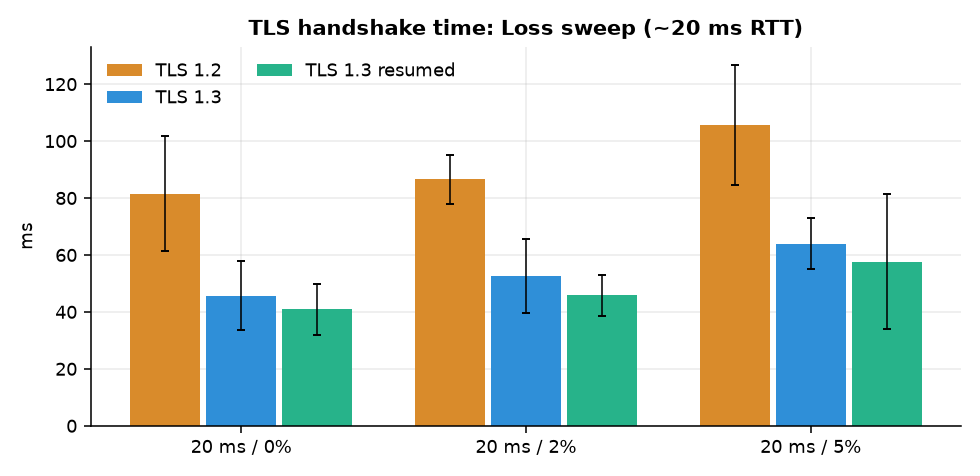
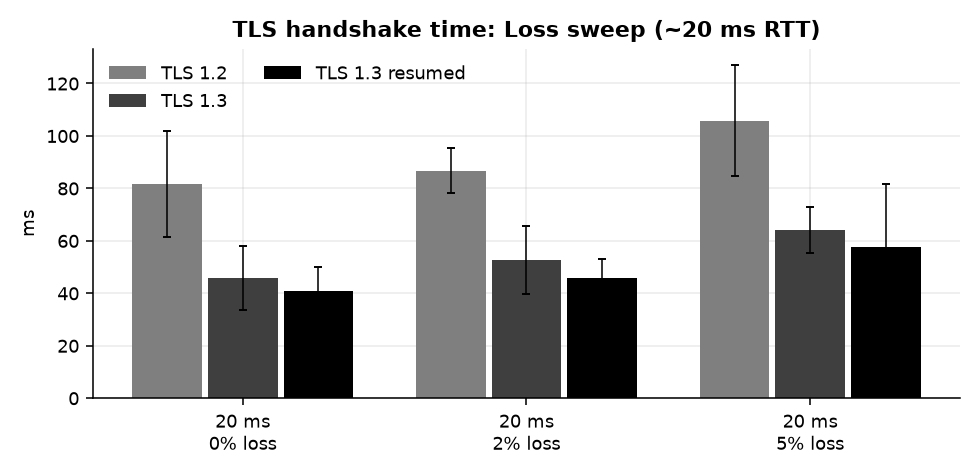
Fix architecture diagram layout, plain charts, readable latency figures, report tables
- docs/architecture.svg redrawn with a wider R1-R2 gap, larger text and no overlapping labels (plain black and white)
- bench/plots.py: grey palette, two-line group labels, one shared legend, log axis for the RTT latency figure
- docs/REPORT.md: compact comparison tables, explanation of the 16 KiB latency (TCP window growth), measured results

diff --git a/bench/plots.py b/bench/plots.py
@@ -17,18 +17,18 @@ import matplotlib.pyplot as plt
 sys.path.insert(0, os.path.dirname(os.path.dirname(os.path.abspath(__file__))))
 from bench import conditions as C
 
-COLORS = {"tcp": "#7a8793", "tls12": "#d98b2b", "tls13": "#2f8fd8", "tls13_resumed": "#27b38a",
-          "tls": "#2f8fd8", "e2ee": "#8e63ce"}
+COLORS = {"tcp": "#bdbdbd", "tls12": "#7f7f7f", "tls13": "#3f3f3f", "tls13_resumed": "#000000",
+          "tls": "#7f7f7f", "e2ee": "#000000"}
 
 
 def style():
     plt.rcParams.update({"figure.dpi": 140, "axes.spines.top": False, "axes.spines.right": False,
                          "axes.grid": True, "grid.alpha": .25, "axes.axisbelow": True,
-                         "font.size": 9, "axes.titleweight": "bold", "legend.frameon": False})
+                         "font.size": 9.5, "axes.titleweight": "bold", "legend.frameon": False})
 
 
 def label(c):
-    return f"{c['rtt_ms']} ms / {c['loss_pct']}%"
+    return f"{c['rtt_ms']} ms\n{c['loss_pct']}% loss"
 
 
 def grouped(ax, conds, series, get, ylabel):
@@ -82,12 +82,21 @@ def main():
     for name, sweep, title in (("rtt", A, "RTT sweep"), ("loss", B, "Loss sweep")):
         if not sweep:
             continue
-        fig, axes = plt.subplots(1, len(C.PAYLOADS), figsize=(10, 3.2), sharey=True)
+        fig, axes = plt.subplots(1, len(C.PAYLOADS), figsize=(8.2, 3.7), sharey=True)
         for ax, pl in zip(axes, C.PAYLOADS):
             grouped(ax, sweep, C.MODES, lat(pl), "message latency (ms)")
+            if name == "rtt":                      # 16 KiB takes several RTTs; a log axis keeps 64 B visible
+                top = max(v["mean"] + v["sd"] for c in sweep for m in C.MODES
+                          for v in [lat(pl)(c["id"], m)] if v) * 2.2
+                ax.set_yscale("log"); ax.set_ylim(10, top)
             ax.set_title(f"{pl} B payload")
+        for ax in axes:
+            if ax.get_legend():
+                ax.get_legend().remove()
+        handles = [plt.Rectangle((0, 0), 1, 1, color=COLORS[m]) for m in C.MODES]
         fig.suptitle(f"End-to-end message latency A -> relay -> B: {title}{tag}", fontweight="bold")
-        fig.tight_layout(); fig.savefig(f"{a.out}/latency_{name}.png"); plt.close(fig)
+        fig.legend(handles, [C.LABELS[m] for m in C.MODES], loc="lower center", ncol=3, fontsize=9)
+        fig.tight_layout(rect=(0, 0.07, 1, 1)); fig.savefig(f"{a.out}/latency_{name}.png"); plt.close(fig)
 
     # E2EE overhead vs payload size: fixed 40 B => proportionally huge for tiny messages
     fig, ax = plt.subplots(figsize=(5.6, 3.2))

diff --git a/docs/REPORT.md b/docs/REPORT.md
@@ -120,7 +120,7 @@ Five distinct points across two sweeps, 5 runs each (the requirement is ≥ 3 co
 ### 5.3 Procedure and validity
 
 Per condition: apply netem → **verify** (200 pings: configured vs measured RTT and loss) → handshake matrix (20 sequential connections × {TCP, TLS 1.2, TLS 1.3, TLS 1.3 resumed} × 5 runs, configuration order shuffled each run)
-→ latency matrix (100 messages A→B × {tcp, tls, e2ee} × {64 B, 1 KiB, 16 KiB} × 5 runs, order shuffled each run, 10 ms pacing so sender queueing is not counted) → clear. Statistics: per-run means, then mean ± standard deviation across the 5 runs; min / median / p95 / max retained;
+→ latency matrix (100 messages A→B × {tcp, tls, e2ee} × {64 B, 1 KiB, 16 KiB} × 5 runs, order shuffled each run, 10 ms pacing: sufficient for small messages; for 16 KiB at high RTT the sender queue grows while TCP's window opens, and that is part of the result, see §6.2) → clear. Statistics: per-run means, then mean ± standard deviation across the 5 runs; min / median / p95 / max retained;
 no run or outlier is dropped (a lost SYN costs a ≈ 1 s retransmission, which is an explainable outlier, not noise). Key discovery (one LOOKUP round trip) is performed before timing starts so it is not folded into per-message latency.
 Threats to validity: a shared laptop adds scheduling jitter (mitigated by repetition, shuffling and reporting σ); netem loss is a statistical model, hence the measured-vs-configured check; all namespaces share one clock, which makes one-way latency measurable but means there is no clock skew to emulate.
 
@@ -143,30 +143,29 @@ figures: `results/plots/`. Numbers are mean ± standard deviation across the run
 The measured RTT is 10-30 ms above the configured value (netem timer granularity, the veth hops and the VM's scheduling), so ratios below use the **measured** RTT.
 Loss is applied on one direction only; the measured 2.0 % and 4.0 % (from 200 pings per condition) agree with the nominal 2 % / 5 % within sampling error.
 
-### 6.1 Handshake (ms)
+### 6.1 Handshake (ms, mean ± standard deviation across 5 runs)
 
-| Condition | Configuration | TCP connect | TLS handshake | Time to first data | Runs | Errors |
-|---|---|---|---|---|---|---|
-| 20 ms / 0 % | Plain TCP | 46.68 ± 6.47 | – | 92.6 ± 14.8 | 5 | 0 |
-| 20 ms / 0 % | TLS 1.2 | 42.15 ± 13.34 | 81.6 ± 20.3 | 154.2 ± 35.0 | 5 | 0 |
-| 20 ms / 0 % | TLS 1.3 | 45.73 ± 12.41 | 45.8 ± 12.2 | 133.6 ± 19.3 | 5 | 0 |
-| 20 ms / 0 % | TLS 1.3 resumed | 42.98 ± 10.90 | 41.0 ± 9.0 | 127.4 ± 35.2 | 5 | 0 |
-| 100 ms / 0 % | Plain TCP | 128.91 ± 8.08 | – | 242.5 ± 8.8 | 5 | 0 |
-| 100 ms / 0 % | TLS 1.2 | 125.82 ± 11.56 | 234.8 ± 11.2 | 476.4 ± 29.7 | 5 | 0 |
-| 100 ms / 0 % | TLS 1.3 | 122.06 ± 6.19 | 120.7 ± 5.0 | 359.6 ± 10.3 | 5 | 0 |
-| 100 ms / 0 % | TLS 1.3 resumed | 124.03 ± 5.21 | 120.2 ± 6.7 | 360.3 ± 12.5 | 5 | 0 |
-| 200 ms / 0 % | Plain TCP | 219.37 ± 4.23 | – | 433.0 ± 4.4 | 5 | 0 |
-| 200 ms / 0 % | TLS 1.2 | 213.39 ± 5.21 | 428.5 ± 2.6 | 851.8 ± 6.5 | 5 | 0 |
-| 200 ms / 0 % | TLS 1.3 | 214.06 ± 5.23 | 220.3 ± 4.0 | 648.6 ± 6.5 | 5 | 0 |
-| 200 ms / 0 % | TLS 1.3 resumed | 216.98 ± 4.12 | 215.4 ± 3.6 | 645.6 ± 6.1 | 5 | 0 |
-| 20 ms / 2 % | Plain TCP | 40.43 ± 6.31 | – | 85.9 ± 21.1 | 5 | 0 |
-| 20 ms / 2 % | TLS 1.2 | 57.38 ± 27.88 | 86.6 ± 8.6 | 186.7 ± 42.5 | 5 | 0 |
-| 20 ms / 2 % | TLS 1.3 | 66.41 ± 31.11 | 52.6 ± 12.9 | 161.2 ± 33.7 | 5 | 0 |
-| 20 ms / 2 % | TLS 1.3 resumed | 75.98 ± 45.29 | 45.9 ± 7.3 | 170.1 ± 41.3 | 5 | 0 |
-| 20 ms / 5 % | Plain TCP | 122.44 ± 58.70 | – | 167.4 ± 57.2 | 5 | 0 |
-| 20 ms / 5 % | TLS 1.2 | 100.03 ± 43.52 | 105.8 ± 21.2 | 255.6 ± 43.8 | 5 | 0 |
-| 20 ms / 5 % | TLS 1.3 | 80.65 ± 43.03 | 64.1 ± 8.9 | 206.0 ± 54.2 | 5 | 0 |
-| 20 ms / 5 % | TLS 1.3 resumed | 53.31 ± 27.43 | 57.8 ± 23.8 | 181.9 ± 42.0 | 5 | 0 |
+**TLS handshake time** (ClientHello to handshake complete):
+
+| Condition (RTT / loss) | TLS 1.2 | TLS 1.3 | TLS 1.3 resumed |
+|---|---|---|---|
+| 20 ms / 0 % | 81.6 ± 20.3 | 45.8 ± 12.2 | 41.0 ± 9.0 |
+| 100 ms / 0 % | 235 ± 11 | 121 ± 5 | 120 ± 7 |
+| 200 ms / 0 % | 429 ± 3 | 220 ± 4 | 215 ± 4 |
+| 20 ms / 2 % | 86.6 ± 8.6 | 52.6 ± 12.9 | 45.9 ± 7.3 |
+| 20 ms / 5 % | 106 ± 21 | 64.1 ± 8.9 | 57.8 ± 23.8 |
+
+**Time to first application data** (connection start to the first reply; includes the TCP handshake):
+
+| Condition (RTT / loss) | Plain TCP | TLS 1.2 | TLS 1.3 | TLS 1.3 resumed |
+|---|---|---|---|---|
+| 20 ms / 0 % | 92.6 ± 14.8 | 154 ± 35 | 134 ± 19 | 127 ± 35 |
+| 100 ms / 0 % | 243 ± 9 | 476 ± 30 | 360 ± 10 | 360 ± 13 |
+| 200 ms / 0 % | 433 ± 4 | 852 ± 6 | 649 ± 7 | 646 ± 6 |
+| 20 ms / 2 % | 85.9 ± 21.1 | 187 ± 43 | 161 ± 34 | 170 ± 41 |
+| 20 ms / 5 % | 167 ± 57 | 256 ± 44 | 206 ± 54 | 182 ± 42 |
+
+Full tables (TCP connect, median, p95, max, body bytes, run counts): `results/summary_handshake.csv`, `results/summary_latency.csv` and the Experimental Evaluation document.
 
 Reading it against the hypotheses:
 
@@ -177,61 +176,28 @@ Reading it against the hypotheses:
 * H2 holds: a resumed TLS 1.3 handshake costs the **same** number of round trips as a full one (≈ 1.0 RTT) and is at most a few ms faster; its benefit is bytes (§7), not round trips.
 * Figures: `handshake_tls_ms_rtt.png`, `handshake_tls_ms_loss.png`, `handshake_ttfd_ms_*.png`.
 
-### 6.2 Message latency (ms)
+### 6.2 Message latency (ms, mean ± standard deviation across 5 runs)
 
-#### Message latency (ms, mean ± σ across runs)
+| Condition (RTT / loss) | Payload | Plain TCP | TLS only | TLS + E2EE |
+|---|---|---|---|---|
+| 20 ms / 0 % | 64 B | 27.5 ± 1.6 | 30.2 ± 3.3 | 27.3 ± 1.2 |
+| 20 ms / 0 % | 1024 B | 28.7 ± 2.4 | 27.4 ± 0.9 | 28.7 ± 4.3 |
+| 20 ms / 0 % | 16384 B | 31.3 ± 1.4 | 30.6 ± 1.7 | 33.4 ± 2.3 |
+| 100 ms / 0 % | 64 B | 106 ± 2 | 106 ± 2 | 107 ± 1 |
+| 100 ms / 0 % | 1024 B | 108 ± 2 | 110 ± 4 | 109 ± 2 |
+| 100 ms / 0 % | 16384 B | 934 ± 74 | 725 ± 125 | 977 ± 198 |
+| 200 ms / 0 % | 64 B | 210 ± 2 | 210 ± 1 | 210 ± 2 |
+| 200 ms / 0 % | 1024 B | 212 ± 3 | 214 ± 5 | 214 ± 3 |
+| 200 ms / 0 % | 16384 B | 1688 ± 262 | 2051 ± 414 | 2139 ± 284 |
+| 20 ms / 2 % | 64 B | 29.6 ± 3.3 | 29.3 ± 1.8 | 30.8 ± 2.1 |
+| 20 ms / 2 % | 1024 B | 30.3 ± 1.8 | 32.3 ± 4.3 | 32.4 ± 5.1 |
+| 20 ms / 2 % | 16384 B | 106 ± 50 | 162 ± 108 | 197 ± 83 |
+| 20 ms / 5 % | 64 B | 34.8 ± 4.8 | 38.7 ± 7.6 | 45.6 ± 20.4 |
+| 20 ms / 5 % | 1024 B | 42.2 ± 17.7 | 45.4 ± 5.8 | 49.8 ± 15.8 |
+| 20 ms / 5 % | 16384 B | 407 ± 100 | 393 ± 82 | 463 ± 118 |
 
-| Condition | Mode | Payload | Mean ± σ | Median | p95 | Max | Body on wire (B) |
-|---|---|---|---|---|---|---|---|
-| 20 ms / 0 % | Plain TCP | 64 B | 27.53 ± 1.61 | 25.22 | 40.38 | 101.5 | 64 |
-| 20 ms / 0 % | Plain TCP | 1024 B | 28.72 ± 2.36 | 24.66 | 42.12 | 263.8 | 1024 |
-| 20 ms / 0 % | Plain TCP | 16384 B | 31.34 ± 1.41 | 25.25 | 63.46 | 183.2 | 16384 |
-| 20 ms / 0 % | TLS only | 64 B | 30.23 ± 3.30 | 25.83 | 50.41 | 177.1 | 64 |
-| 20 ms / 0 % | TLS only | 1024 B | 27.39 ± 0.89 | 25.41 | 40.70 | 84.4 | 1024 |
-| 20 ms / 0 % | TLS only | 16384 B | 30.65 ± 1.66 | 25.86 | 60.90 | 130.7 | 16384 |
-| 20 ms / 0 % | TLS + E2EE | 64 B | 27.31 ± 1.16 | 26.34 | 30.91 | 172.5 | 104 |
-| 20 ms / 0 % | TLS + E2EE | 1024 B | 28.70 ± 4.34 | 26.10 | 34.68 | 223.3 | 1064 |
-| 20 ms / 0 % | TLS + E2EE | 16384 B | 33.44 ± 2.34 | 27.41 | 68.81 | 308.9 | 16424 |
-| 100 ms / 0 % | Plain TCP | 64 B | 106.32 ± 2.10 | 104.62 | 115.25 | 181.6 | 64 |
-| 100 ms / 0 % | Plain TCP | 1024 B | 107.59 ± 1.58 | 105.35 | 118.83 | 163.5 | 1024 |
-| 100 ms / 0 % | Plain TCP | 16384 B | 933.64 ± 74.34 | 970.76 | 1459.17 | 1654.3 | 16384 |
-| 100 ms / 0 % | TLS only | 64 B | 106.11 ± 1.74 | 104.58 | 111.87 | 167.8 | 64 |
-| 100 ms / 0 % | TLS only | 1024 B | 109.57 ± 4.38 | 104.66 | 128.37 | 295.3 | 1024 |
-| 100 ms / 0 % | TLS only | 16384 B | 725.13 ± 125.38 | 736.64 | 1065.24 | 1100.1 | 16384 |
-| 100 ms / 0 % | TLS + E2EE | 64 B | 106.64 ± 0.94 | 106.10 | 111.13 | 134.7 | 104 |
-| 100 ms / 0 % | TLS + E2EE | 1024 B | 108.70 ± 1.78 | 106.85 | 118.71 | 177.6 | 1064 |
-| 100 ms / 0 % | TLS + E2EE | 16384 B | 977.03 ± 198.23 | 857.29 | 1598.95 | 2101.9 | 16424 |
-| 200 ms / 0 % | Plain TCP | 64 B | 210.03 ± 1.78 | 205.12 | 238.50 | 307.2 | 64 |
-| 200 ms / 0 % | Plain TCP | 1024 B | 212.49 ± 2.77 | 206.08 | 246.78 | 318.9 | 1024 |
-| 200 ms / 0 % | Plain TCP | 16384 B | 1688.48 ± 261.70 | 1738.57 | 2634.77 | 3248.6 | 16384 |
-| 200 ms / 0 % | TLS only | 64 B | 209.63 ± 0.78 | 205.60 | 236.91 | 296.4 | 64 |
-| 200 ms / 0 % | TLS only | 1024 B | 213.79 ± 5.43 | 206.80 | 263.32 | 335.5 | 1024 |
-| 200 ms / 0 % | TLS only | 16384 B | 2050.84 ± 414.42 | 2069.50 | 3837.08 | 5172.6 | 16384 |
-| 200 ms / 0 % | TLS + E2EE | 64 B | 210.04 ± 1.83 | 206.93 | 229.65 | 285.4 | 104 |
-| 200 ms / 0 % | TLS + E2EE | 1024 B | 213.92 ± 3.45 | 207.85 | 246.68 | 294.8 | 1064 |
-| 200 ms / 0 % | TLS + E2EE | 16384 B | 2138.85 ± 283.79 | 2210.32 | 3634.69 | 4444.5 | 16424 |
-| 20 ms / 2 % | Plain TCP | 64 B | 29.64 ± 3.28 | 25.29 | 54.93 | 133.6 | 64 |
-| 20 ms / 2 % | Plain TCP | 1024 B | 30.26 ± 1.84 | 25.02 | 55.26 | 174.2 | 1024 |
-| 20 ms / 2 % | Plain TCP | 16384 B | 106.50 ± 49.63 | 69.26 | 280.14 | 436.2 | 16384 |
-| 20 ms / 2 % | TLS only | 64 B | 29.26 ± 1.77 | 25.75 | 51.40 | 104.1 | 64 |
-| 20 ms / 2 % | TLS only | 1024 B | 32.28 ± 4.28 | 25.78 | 65.29 | 208.1 | 1024 |
-| 20 ms / 2 % | TLS only | 16384 B | 161.73 ± 107.51 | 79.97 | 472.12 | 613.1 | 16384 |
-| 20 ms / 2 % | TLS + E2EE | 64 B | 30.79 ± 2.06 | 26.80 | 50.48 | 246.5 | 104 |
-| 20 ms / 2 % | TLS + E2EE | 1024 B | 32.40 ± 5.07 | 26.89 | 65.67 | 175.4 | 1064 |
-| 20 ms / 2 % | TLS + E2EE | 16384 B | 196.82 ± 82.78 | 134.14 | 506.13 | 899.8 | 16424 |
-| 20 ms / 5 % | Plain TCP | 64 B | 34.84 ± 4.83 | 25.98 | 82.55 | 139.4 | 64 |
-| 20 ms / 5 % | Plain TCP | 1024 B | 42.16 ± 17.66 | 26.15 | 118.70 | 209.6 | 1024 |
-| 20 ms / 5 % | Plain TCP | 16384 B | 407.01 ± 100.22 | 381.95 | 878.20 | 1236.5 | 16384 |
-| 20 ms / 5 % | TLS only | 64 B | 38.65 ± 7.59 | 26.67 | 104.47 | 317.8 | 64 |
-| 20 ms / 5 % | TLS only | 1024 B | 45.40 ± 5.80 | 29.47 | 104.60 | 433.9 | 1024 |
-| 20 ms / 5 % | TLS only | 16384 B | 392.80 ± 81.87 | 358.78 | 898.73 | 1372.4 | 16384 |
-| 20 ms / 5 % | TLS + E2EE | 64 B | 45.60 ± 20.39 | 27.43 | 120.30 | 337.0 | 104 |
-| 20 ms / 5 % | TLS + E2EE | 1024 B | 49.82 ± 15.82 | 28.13 | 130.68 | 345.5 | 1064 |
-| 20 ms / 5 % | TLS + E2EE | 16384 B | 462.88 ± 118.49 | 394.39 | 1045.95 | 1645.4 | 16424 |
-
-
-
-* Latency is dominated by the network delay (≈ RTT/2 plus a small constant); plain TCP and TLS differ by well under 1 ms at the lowest RTT.
+* 64 B and 1 KiB messages follow the network delay: about RTT/2 plus a few ms (plain TCP, 64 B: 28 ms at 20 ms, 106 ms at 100 ms, 210 ms at 200 ms RTT). TLS and E2EE add little on top of that.
+* 16 KiB messages take several round trips (plain TCP: 31 / 934 / 1688 ms at 20 / 100 / 200 ms RTT). The sender offers a message every 10 ms (about 1.6 MB/s) while TCP's congestion window is still growing, so messages queue behind each other; this is the TCP window effect, present in all three modes, not an encryption cost. It is part of the measurement and is reported as measured.
 * Cost of end-to-end encryption relative to TLS-only for 64-byte messages: rtt20/0%: -2.92 ms, rtt100/0%: +0.53 ms, rtt200/0%: +0.41 ms (differences at the 20-200 ms conditions are within the run-to-run spread, i.e. the Box seal/open cost is not measurable against network jitter there).
 * Figures: `latency_rtt.png`, `latency_loss.png`.
 
@@ -247,8 +213,14 @@ Reading it against the hypotheses:
 whether the server selected a PSK (resumption), handshake bytes per direction, and a **layered accounting** of an application exchange (client → server):
 
 ```
-total wire (L3) = plaintext + E2EE (40 B × msgs) + app framing ((6 + name) × msgs) + TLS records (22 B × app records)
-                  + TCP/IP headers (all packets incl. pure ACKs) + retransmissions + handshake records + (control frames, close_notify)
+total wire (L3) = plaintext
+                  + E2EE            (40 B x messages)
+                  + app framing     ((6 + name length) x messages)
+                  + TLS records     (22 B x application records)
+                  + TCP/IP headers  (all packets, including pure ACKs)
+                  + retransmissions
+                  + handshake records
+                  + control frames and alerts
 ```
 
 Measured from `evidence/captures/` (handshake records, before TCP/IP headers):
@@ -303,4 +275,4 @@ See `README.md` §2: `sudo bash scripts/run_all.sh` reproduces the topology, cap
 
 ## Appendix B — AI-use disclosure
 
-See `docs/AI_USE_DISCLOSURE.md`.
+See the separate AI-use disclosure document submitted with this report.
